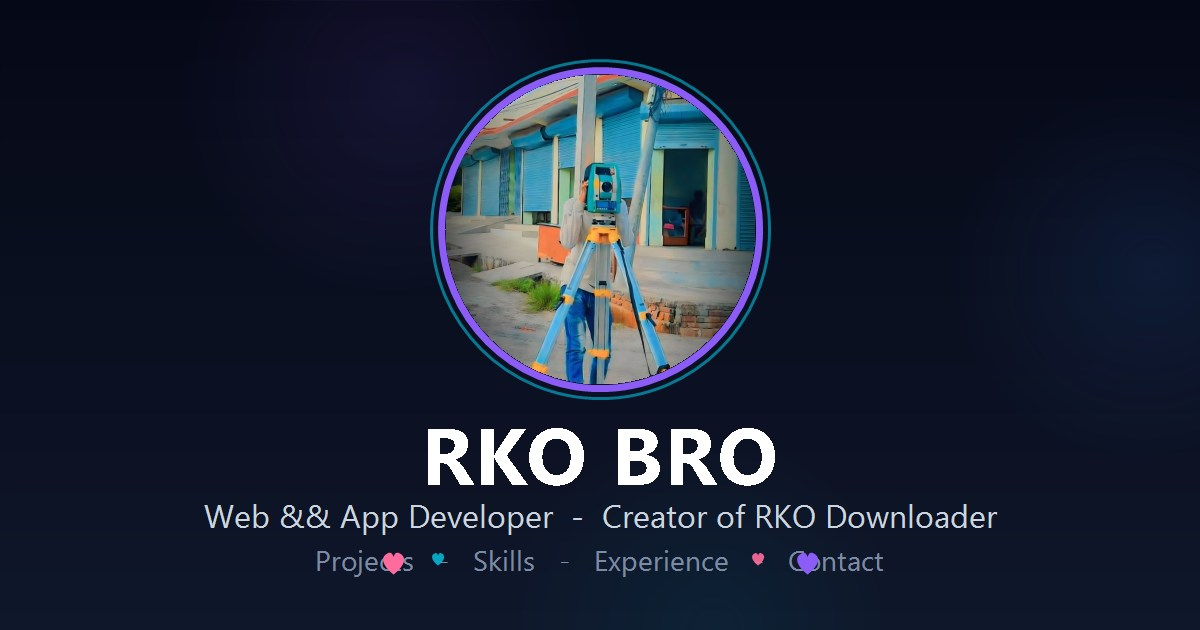
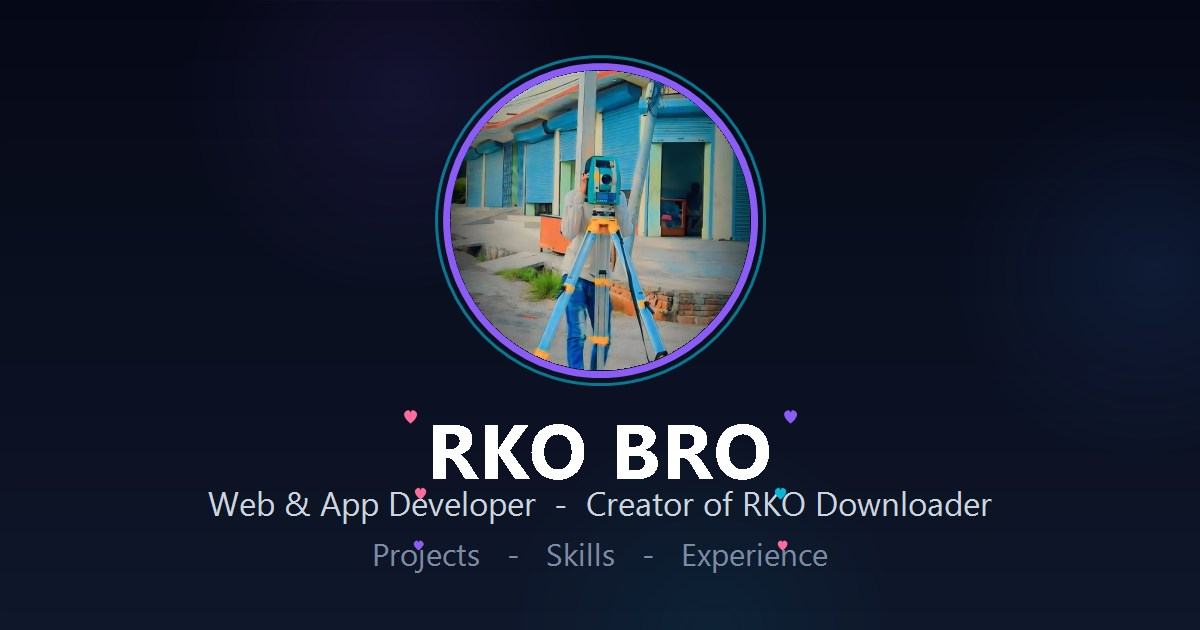
og-image v3: deduplicate 'Web & App Developer' to single instance, cleaner layout

Changed region(s): [[0.3392, 0.0905, 0.6475, 0.6333], [0.1542, 0.6333, 0.8325, 0.9048], [0.6475, 0.6333, 0.6783, 0.6635]]

diff --git a/index.html b/index.html
@@ -6,18 +6,18 @@
   <title>RKO BRO — Full Stack Developer</title>
   <meta name="description" content="Portfolio of RKO BRO, a Full Stack Developer from Nepal building premium web experiences, streaming platforms and developer tools." />
   <meta property="og:title" content="💖 RKO BRO | Full Stack Developer 🫶" />
-  <meta property="og:description" content="🫀 Web & App Developer · Creator of RKO Downloader 🤌 Projects • Skills • Experience 🫶" />
+  <meta property="og:description" content="🫀 Creator of RKO Downloader 🤌 Projects • Skills • Experience 🫶" />
   <meta property="og:type" content="website" />
   <meta property="og:url" content="https://rko-bro-website.pages.dev/" />
-  <meta property="og:image" content="https://rko-bro-website.pages.dev/assets/og-image.jpg?v=2" />
+  <meta property="og:image" content="https://rko-bro-website.pages.dev/assets/og-image.jpg?v=3" />
   <meta property="og:image:width" content="1200" />
   <meta property="og:image:height" content="630" />
   <meta property="og:image:alt" content="RKO BRO - Full Stack Developer" />
   <meta property="og:site_name" content="RKO BRO Portfolio" />
   <meta name="twitter:card" content="summary_large_image" />
   <meta name="twitter:title" content="💖 RKO BRO | Full Stack Developer 🫶" />
-  <meta name="twitter:description" content="🫀 Web & App Developer · Creator of RKO Downloader 🤌 Projects • Skills • Experience 🫶" />
-  <meta name="twitter:image" content="https://rko-bro-website.pages.dev/assets/og-image.jpg?v=2" />
+  <meta name="twitter:description" content="🫀 Creator of RKO Downloader 🤌 Projects • Skills • Experience 🫶" />
+  <meta name="twitter:image" content="https://rko-bro-website.pages.dev/assets/og-image.jpg?v=3" />
   <meta name="theme-color" content="#050816" />
   <link rel="icon" type="image/png" href="assets/favicon-64.png" />
   <link rel="apple-touch-icon" href="assets/favicon-180.png" />
